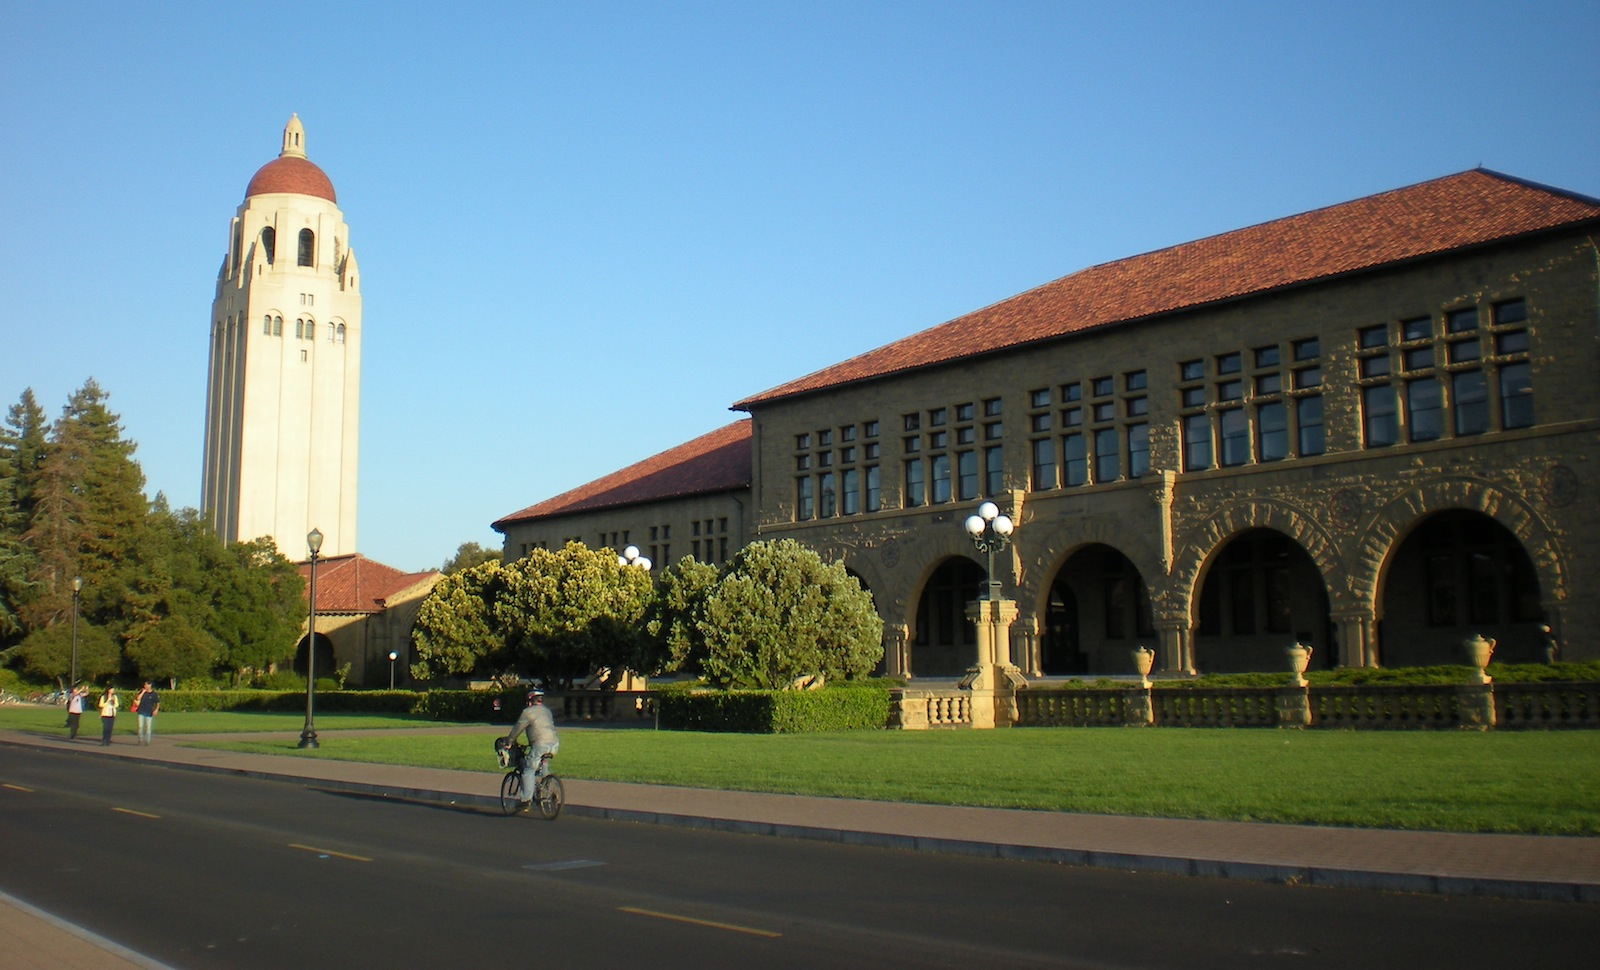
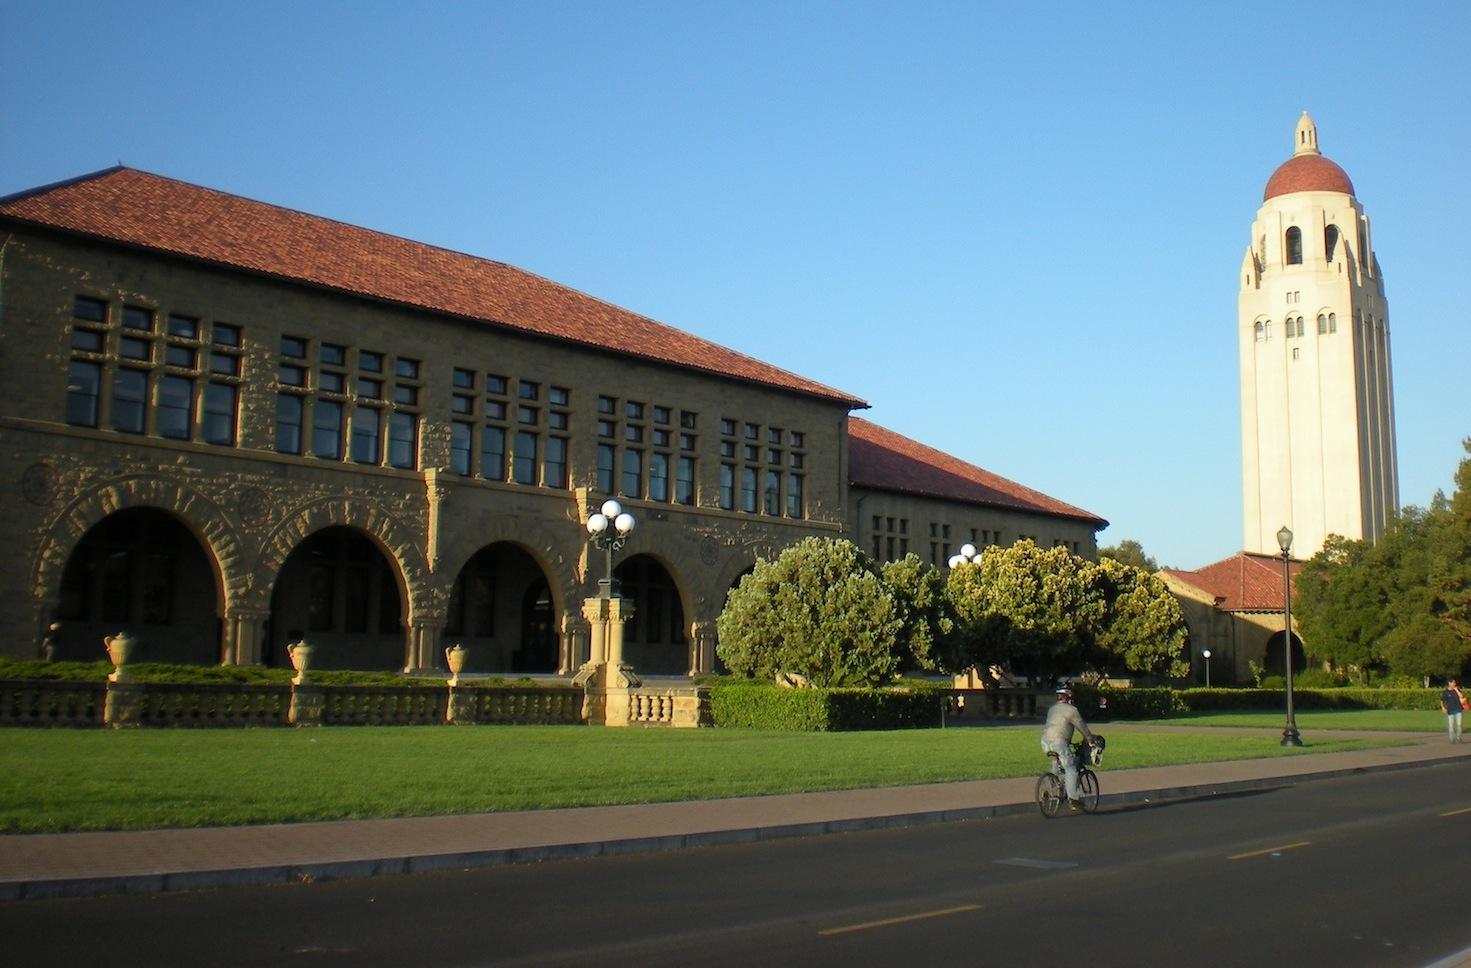
Added home container with text and flipped background image

diff --git a/templates/calendar.html b/templates/calendar.html
@@ -3,7 +3,7 @@
 
 <div class="row-fluid" id="calendar">
   <div class="text-center">
-    <iframe id="cal_iframe" src="https://www.google.com/calendar/embed?showTitle=0&amp;showPrint=0&amp;showCalendars=0&amp;height=600&amp;wkst=1&amp;bgcolor=%23FFFFFF&amp;src=gs1s3bjdfmj9p2d96051dd6oco%40group.calendar.google.com&amp;color=%235229A3&amp;ctz=America%2FLos_Angeles" style="border-width:0 " width="800" height="600" frameborder="0" scrolling="no" align="middle"></iframe>
+    <iframe id="cal_iframe" src="https://www.google.com/calendar/embed?showTitle=0&amp;showPrint=0&amp;showCalendars=0&amp;height=600&amp;wkst=1&amp;bgcolor=%23FFFFFF&amp;src=gs1s3bjdfmj9p2d96051dd6oco%40group.calendar.google.com&amp;color=%235229A3&amp;ctz=America%2FLos_Angeles" style="border-width:0 " width="700" height="450" frameborder="0" scrolling="no" align="middle"></iframe>
   </div>
 </div> 
 

diff --git a/templates/home.html b/templates/home.html
@@ -1,0 +1,16 @@
+{% extends "base.html" %}
+
+{% block content %}
+
+<div class="container-fluid">
+	<div class="row">
+		
+		<div class="span8" id="paragraph">
+			<h2>About AISES</h2>
+			<p>The Stanford Chapter of the American Indian Science and Engineering Society (AISES) actively promotes Native American students in the fields of engineering and science. The Stanford AISES chapter encourages American Indian youth to enter the world of science and engineering while preserving their cultural heritages. This is accomplished by activities such as tutorial services, participation at the AISES National Conference, presentations by companies in the fields of science and engineering, and informational sessions such as resume workshops.</p>
+		</div>
+	
+	</div>
+</div>
+
+{% endblock %}

diff --git a/static/css/aises.css b/static/css/aises.css
@@ -1,8 +1,23 @@
+h1, h2, h3, h4, h5, h6 {
+	color: #999999;
+}
+
+#paragraph {
+	background: white;
+	border-radius: 5px;
+	margin-top: 20px;
+	padding: 15px;
+	margin: 0 auto;
+	margin-top: 20px;
+	float: none;
+}
+
 body {
 	padding-top: 20px;
 	background-image: url("../img/background.jpg");
 	background-repeat: no-repeat;
 	background-attachment: fixed;
+	background-position: right top;
 }
 
 .navbar {
@@ -14,14 +29,12 @@ body {
 
 .navbar .container {
 	height: 70px;
+	background: none;
 }
 
 .navbar .brand {
-	color: FBFBFB;
+	color: #FBFBFB;
 	font-size: 38px;
-}
-
-.navbar-text {
 }
 
 .navbar-inner {

diff --git a/app.py b/app.py
@@ -6,7 +6,7 @@ app = Flask(__name__)
 
 @app.route('/')
 def home():
-    return render_template('base.html')
+    return render_template('home.html')
 
 @app.route('/calendar')
 def calendar():
